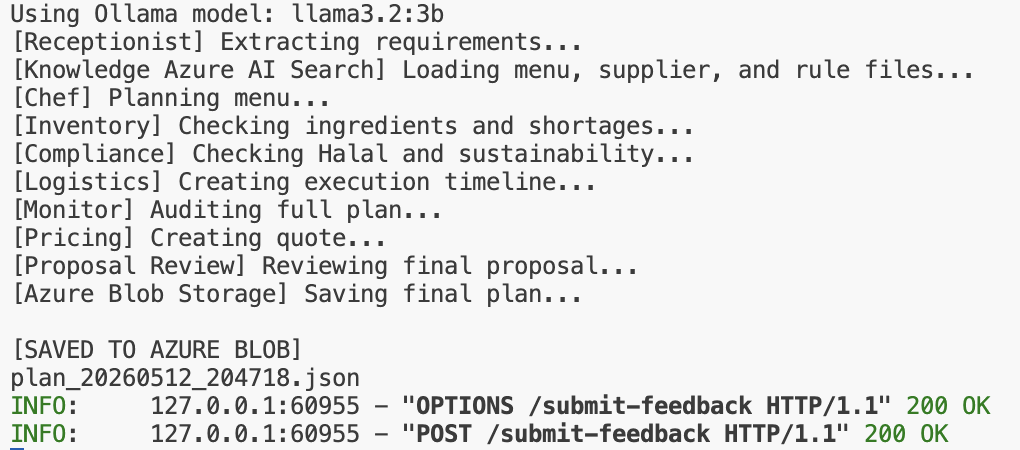
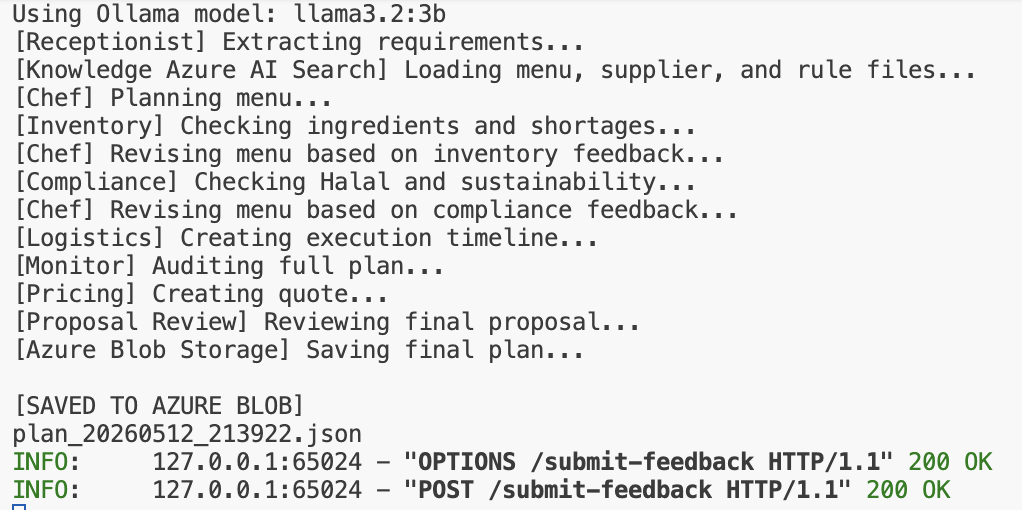
Added agent-to-agent comms

Changed region(s): [[0.0, 0.0, 0.9422, 0.7156], [0.0, 0.7467, 0.9725, 1.0]]

diff --git a/frontend/app/page.tsx b/frontend/app/page.tsx
@@ -22,7 +22,9 @@ const loadingSteps = [
   "Loading knowledge Azure AI Search...",
   "Planning menu...",
   "Checking inventory...",
+  "Revising menu based on inventory feedback...",
   "Checking compliance...",
+  "Revising menu based on compliance feedback...",
   "Planning logistics...",
   "Auditing risks...",
   "Optimizing pricing...",

diff --git a/app.py b/app.py
@@ -608,6 +608,18 @@ async def generate_catering_plan(user_request: str, progress_callback=None):
     Inventory rules: {inventory_rules}
     """)
     plan.inventory_report = res.text
+    
+    await send_progress("Revising menu based on inventory feedback...")
+    print("[Chef] Revising menu based on inventory feedback...")
+    res = await chef.run(f"""
+    The Inventory Agent reviewed the menu and provided this feedback:
+    {plan.inventory_report}
+    Original menu:
+    {plan.menu}
+    Revise the menu if there are shortages, lead-time issues, or unsuitable ingredients.
+    If no revision is needed, clearly say the original menu is suitable.
+    """)
+    plan.menu = res.text
 
     await send_progress("Checking compliance...")
     print("[Compliance] Checking Halal and sustainability...")
@@ -618,6 +630,17 @@ async def generate_catering_plan(user_request: str, progress_callback=None):
     """)
     plan.compliance_report = res.text
     
+    await send_progress("Revising menu based on compliance feedback...")
+    print("[Chef] Revising menu based on compliance feedback...")
+    res = await chef.run(f"""
+    The Compliance Agent reviewed the menu and provided this feedback:
+    {plan.compliance_report}
+    Current menu:
+    {plan.menu}
+    Revise the menu to fix any halal, allergy, dietary, or sustainability issues.
+    If no revision is needed, clearly say the menu is compliant.
+    """)
+    plan.menu = res.text
 
     await send_progress("Planning logistics...")
     print("[Logistics] Creating execution timeline...")

diff --git a/README.md b/README.md
@@ -54,6 +54,10 @@ The system also uses Azure AI Search as a knowledge base and Azure Blob Storage 
 - Proposal Review Agent
 - Feedback Analysis Agent
 
+## Agent-to-Agent Communication
+
+The system demonstrates agent-to-agent communication through shared context and feedback loops. For example, the Menu Planning Agent generates an initial menu, the Inventory Agent reviews it for supplier shortages, and the Menu Planning Agent revises the menu based on inventory feedback. Similarly, the Compliance Agent checks halal and allergy rules, and the Menu Planning Agent updates the proposal based on compliance findings.
+
 ## System Architecture
 
 <img src="screenshots/architecture_diagram.png" width="1000"/>
@@ -86,6 +90,7 @@ OLLAMA_MODEL=llama3.2:3b
 ## Example Test Cases
 
 ### Valid Case (Test Case 1)
+- Wedding Dinner
 - Kuala Lumpur
 - 120 pax
 - Vegetarian
